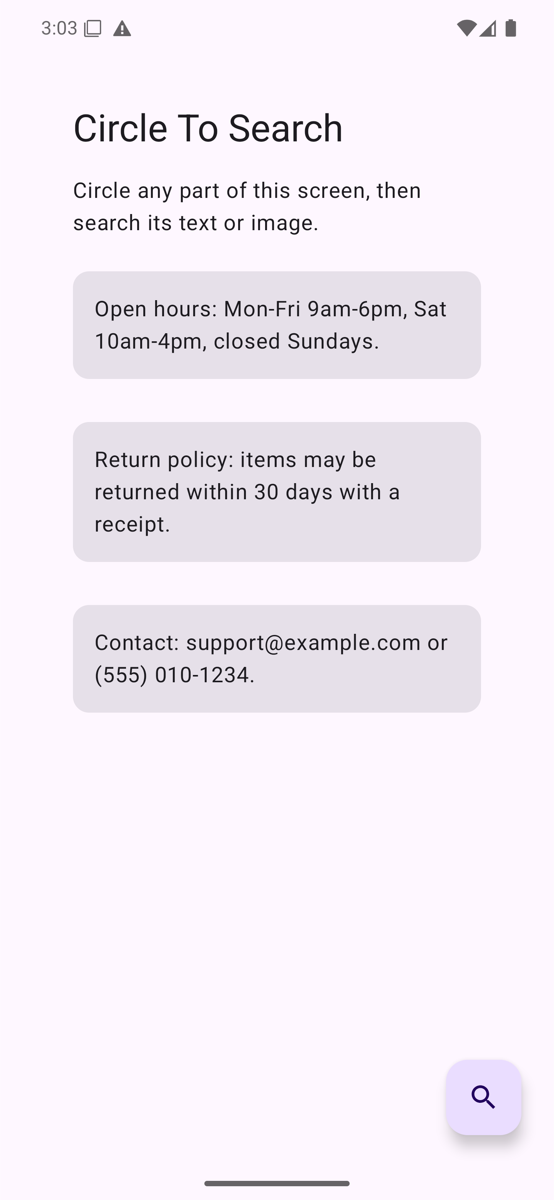
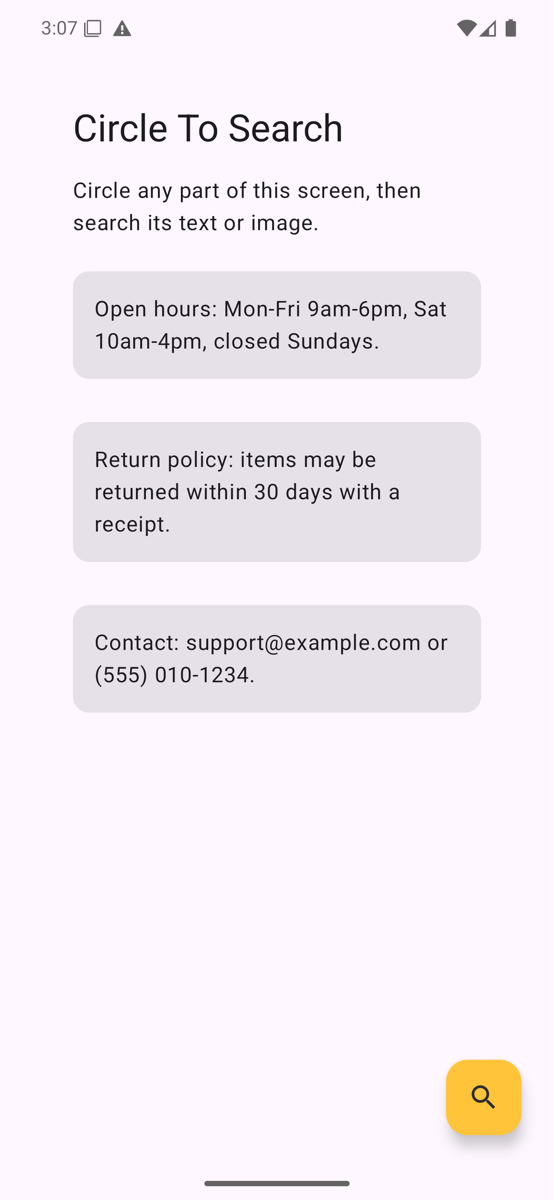
Default colors match BizBuddy (blue chrome, yellow FAB); refresh screenshots

Changed region(s): [[0.7978, 0.8633, 0.9513, 0.9558], [0.1227, 0.0, 0.1534, 0.0308]]

diff --git a/circletosearch/src/commonMain/kotlin/com/circletosearch/CircleSearchConfig.kt b/circletosearch/src/commonMain/kotlin/com/circletosearch/CircleSearchConfig.kt
@@ -3,13 +3,15 @@ package com.circletosearch
 import androidx.compose.runtime.Composable
 import androidx.compose.ui.graphics.Brush
 import androidx.compose.ui.graphics.Color
+import androidx.compose.ui.graphics.SolidColor
 import com.circletosearch.ocr.OcrProvider
 import com.circletosearch.ocr.OcrProviders
 
-// Google-ish "Circle to Search" palette: a cool blue up top, a warm yellow glow down low.
-private val DefaultLensBlue = Color(0xFF4285F4)
-private val DefaultLensYellow = Color(0xFFFBBC04)
-private val DefaultSearchBarBlack = Color(0xFF202124)
+// Brand-style palette (matches the BizBuddy app): blue chrome, yellow launch button, ink pill.
+private val DefaultBlue = Color(0xFF0070BA)
+private val DefaultDarkBlue = Color(0xFF003087)
+private val DefaultYellow = Color(0xFFFFC439)
+private val DefaultInk = Color(0xFF2C2E2F)
 private val DefaultSelectionStrokeColor = Color(0xFFFAFAFA)
 
 /** Colors used by [SelectableContent]'s gesture, scrim, and chrome. All fully customizable. */
@@ -29,30 +31,20 @@ data class CircleSearchColors(
 ) {
     companion object {
         fun defaults(): CircleSearchColors = CircleSearchColors(
-            // A light, uniform 10% tint across the center (not a harsh grey wash) so circled
-            // content stays legible, with a bit more color concentrated near the top/bottom chrome.
-            scrimBrush = Brush.verticalGradient(
-                0f to DefaultLensBlue.copy(alpha = 0.28f),
-                0.22f to Color.Black.copy(alpha = 0.10f),
-                0.78f to Color.Black.copy(alpha = 0.10f),
-                1f to DefaultLensYellow.copy(alpha = 0.08f),
-            ),
-            topBarBrush = Brush.verticalGradient(listOf(DefaultLensBlue.copy(alpha = 0.85f), Color.Transparent)),
-            bottomGlowBrush = Brush.verticalGradient(
-                listOf(Color.Transparent, DefaultLensYellow.copy(alpha = 0.16f)),
-            ),
-            searchBarColor = DefaultSearchBarBlack,
+            // No grey wash: content stays at full color; the blue chrome carries the mode change.
+            scrimBrush = SolidColor(Color.Transparent),
+            // Opaque bars read as a solid wash over the host's own app bars.
+            topBarBrush = Brush.verticalGradient(listOf(DefaultDarkBlue, DefaultBlue)),
+            bottomGlowBrush = Brush.verticalGradient(listOf(Color.Transparent, DefaultBlue, DefaultDarkBlue)),
+            searchBarColor = DefaultInk,
             contentColor = Color.White,
             topBarCloseBackgroundColor = Color.Black.copy(alpha = 0.25f),
             resultPanelColor = Color.Unspecified,
             selectionStrokeColor = DefaultSelectionStrokeColor,
-            // A touch darker than the base scrim while actively drawing, so the stroke stands out.
-            selectingDarkenBrush = Brush.verticalGradient(
-                0f to Color.Black.copy(alpha = 0.32f),
-                0.22f to Color.Black.copy(alpha = 0.10f),
-                0.78f to Color.Black.copy(alpha = 0.10f),
-                1f to Color.Black.copy(alpha = 0.32f),
-            ),
+            // A light dim while drawing so the white stroke stands out.
+            selectingDarkenBrush = SolidColor(Color.Black.copy(alpha = 0.12f)),
+            fabContainerColor = DefaultYellow,
+            fabContentColor = DefaultInk,
         )
     }
 }

diff --git a/sample/src/commonMain/kotlin/com/circletosearch/sample/App.kt b/sample/src/commonMain/kotlin/com/circletosearch/sample/App.kt
@@ -1,6 +1,8 @@
 package com.circletosearch.sample
 
 import androidx.compose.material3.MaterialTheme
+import androidx.compose.material3.lightColorScheme
+import androidx.compose.ui.graphics.Color
 import androidx.compose.runtime.Composable
 import androidx.compose.runtime.getValue
 import androidx.compose.runtime.mutableStateOf
@@ -15,7 +17,7 @@ private sealed interface Screen {
 
 @Composable
 fun App() {
-    MaterialTheme {
+    MaterialTheme(colorScheme = lightColorScheme(primary = Color(0xFF0070BA), onPrimary = Color.White)) {
         var screen by remember { mutableStateOf<Screen>(Screen.Demo) }
 
         when (val current = screen) {

diff --git a/circletosearch/src/commonMain/kotlin/com/circletosearch/SelectableContent.kt b/circletosearch/src/commonMain/kotlin/com/circletosearch/SelectableContent.kt
@@ -151,7 +151,7 @@ fun SelectableContent(
             Box(
                 modifier = Modifier
                     .fillMaxWidth()
-                    .height(140.dp)
+                    .height(112.dp)
                     .background(config.colors.bottomGlowBrush),
             )
         }
